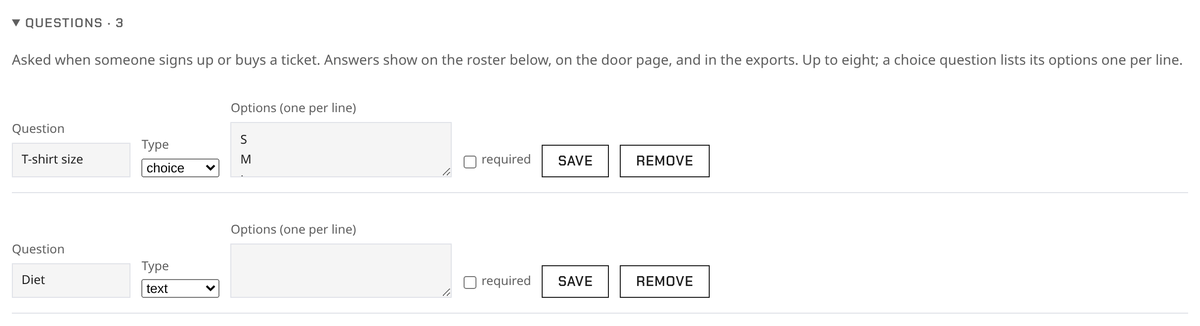
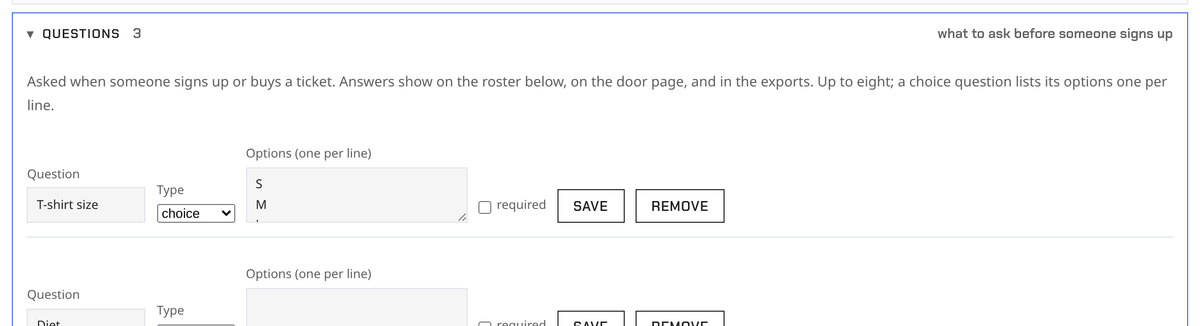
The board's sections on an event read as a menu
Seven folded sections looked alike: small grey labels in a row, nothing
saying which one held what you came for. Each is a row of its own now,
with the name, what it holds this minute (3 types · 14 sold, 12 going,
none) and a hint of what is inside (prices, how many, when sales close,
CSV). An open one turns white with a blue edge, and the browser's
triangle — lost to the flex row — is back as a chevron.

The danger zone keeps its distance in red, on the event page and on the
events page, where removing a member everywhere lives.

"Manage participants" is just "Participants" now, in the panel and in
both guides. Handbook pictures retaken, and the shot list follows the
sections by id rather than by the words in their summaries.

Claude-Session: https://claude.ai/code/session_019m4NkzFyEy3cwdh3cuTmAt

diff --git a/src/styles/site.css b/src/styles/site.css
@@ -1535,12 +1535,22 @@ a:hover {
   user-select: all;
 }
 
+/* The board's sections on an event: a row each, saying what is inside and
+   what it holds now, so the panel reads as a menu instead of seven
+   identical labels. */
 .admin-edit {
-  margin-top: 1.2rem;
+  margin-top: 0.5rem;
+  border: 1px solid var(--line);
+  background: #fafbfd;
 }
 
 .admin-edit summary {
   cursor: pointer;
+  display: flex;
+  align-items: baseline;
+  gap: 0.3rem 0.8rem;
+  flex-wrap: wrap;
+  padding: 0.6rem 0.9rem;
   font-family: var(--display);
   font-weight: 600;
   font-size: 0.8rem;
@@ -1549,13 +1559,89 @@ a:hover {
   color: var(--muted);
 }
 
-.admin-edit summary:hover {
+.admin-edit summary b {
   color: var(--ink);
+  font-weight: 700;
+}
+
+/* a flex summary loses the browser's triangle; this is it back */
+.admin-edit summary::marker,
+.admin-edit summary::-webkit-details-marker {
+  content: '';
+  display: none;
+}
+
+.admin-edit summary b::before {
+  content: '▸';
+  margin-right: 0.5rem;
+  color: var(--muted);
+}
+
+.admin-edit[open] summary b::before {
+  content: '▾';
+}
+
+.admin-edit summary:hover b {
+  color: var(--blue);
+}
+
+.admin-edit-meta {
+  font-family: var(--body);
+  font-weight: 400;
+  font-size: 0.88rem;
+  letter-spacing: 0;
+  text-transform: none;
+  color: var(--muted);
+}
+
+.admin-edit-hint {
+  margin-left: auto;
+  font-family: var(--body);
+  font-weight: 400;
+  font-size: 0.85rem;
+  letter-spacing: 0;
+  text-transform: none;
+  color: var(--muted);
+}
+
+@media (max-width: 700px) {
+  .admin-edit-hint {
+    display: none;
+  }
+}
+
+.admin-edit[open] {
+  background: var(--surface);
+  border-color: var(--blue);
+}
+
+.admin-edit[open] > *:not(summary) {
+  margin-left: 0.9rem;
+  margin-right: 0.9rem;
+}
+
+.admin-edit[open] > *:last-child {
+  margin-bottom: 1rem;
 }
 
 .admin-edit form,
 .admin-edit p {
   margin-top: 1rem;
+}
+
+/* what cannot be undone keeps its distance */
+.admin-danger {
+  margin-top: 1.4rem;
+  border-color: #c0392b;
+  background: var(--surface);
+}
+
+.admin-danger summary b {
+  color: #c0392b;
+}
+
+.admin-danger summary:hover b {
+  color: #922b21;
 }
 
 .app-form {

diff --git a/scripts/handbook/plan.py b/scripts/handbook/plan.py
@@ -47,20 +47,20 @@ shot('board-hub', '/board', 'admin', clip='.board-links', pad=16, hl=['.board-al
 shot('season-top', '/board/season', 'admin', clip='h1', skip=0, extend=700, hl=['.stat-tiles'])
 shot('season-ticks', '/board/season', 'admin', clip='#ticks', pad=12, hl=['text=Give tick', 'text=Add to the list'], nums=True)
 shot('season-claims', '/board/season', 'admin', clip='#claims', pad=12, hl=['text=Approve'])
-shot('event-ticks', '/events/2', 'admin', open=['details.admin-panel'], openText=['Manage participants'], clip='.ticks-box', pad=12, hl=['text=Give tick'])
+shot('event-ticks', '/events/2', 'admin', open=['details.admin-panel'], openText=['Participants'], clip='.ticks-box', pad=12, hl=['text=Give tick'])
 # Events
 shot('events-list', '/events', top=790, pad=0)
 shot('events-board-tools', '/events', 'admin', open=['details.admin-panel'], clip='details.admin-panel', top=400, hl=['text^=Door page', 'text=Member check', 'text=Items and card payments', 'text^=Create an event'], nums=True)
-shot('event-board-tools', '/events/1', 'admin', open=['details.admin-panel'], clip='details.admin-panel', hl=['.admin-status', 'text=Door page', 'text^=Tickets ·'], nums=True)
+shot('event-board-tools', '/events/1', 'admin', open=['details.admin-panel'], clip='details.admin-panel', hl=['.admin-status', 'text=Door page', '#tickets summary'], nums=True)
 shot('event-draft-page', '/events/6', 'admin', top=640, pad=0, hl=['.publish-form', 'text=Draft'])
-shot('event-tickets-panel', '/events/1', 'admin', open=['details.admin-panel'], openText=['Tickets'], clip='details^=Tickets', top=520, hl=['text=Export CSV', 'text=Door page'], nums=True)
-shot('event-questions-panel', '/events/1', 'admin', open=['details.admin-panel'], openText=['Questions'], clip='details^=Questions', top=330, hl=['text=Add question'])
-shot('event-participants-panel', '/events/2', 'admin', open=['details.admin-panel'], openText=['Manage participants'], clip='details^=Manage participants', top=480, hl=['text=Add participant'])
+shot('event-tickets-panel', '/events/1', 'admin', open=['details.admin-panel'], openText=['Tickets'], clip='#tickets', top=520, hl=['text=Export CSV', 'text=Door page'], nums=True)
+shot('event-questions-panel', '/events/1', 'admin', open=['details.admin-panel'], openText=['Questions'], clip='#questions', top=330, hl=['text=Add question'])
+shot('event-participants-panel', '/events/2', 'admin', open=['details.admin-panel'], openText=['Participants'], clip='#participants', top=480, hl=['text=Add participant'])
 shot('event-roster-waitlist', '/events/2', 'admin', clip='#who', hl=['.roster-label', '.member-mark-guest'], pad=8, nums=True)
 shot('event-edit-panel', '/events/1', 'admin', open=['details.admin-panel', 'details.admin-edit'], clip='details.admin-edit', top=420)
 shot('event-cover-duplicate', '/events/1', 'admin', open=['details.admin-panel', 'details.admin-edit'], clip='.cover-form', pad=16, extend=80, hl=['text=Replace cover', 'text=Duplicate as a draft', 'text=Cancel this event'], nums=True)
-shot('event-photos-panel', '/events/1', 'admin', open=['details.admin-panel'], openText=['Photos'], clip='details^=Photos', hl=['text=Upload'])
-shot('event-danger', '/events/1', 'admin', open=['details.admin-panel'], openText=['Danger zone'], clip='details^=Danger zone')
+shot('event-photos-panel', '/events/1', 'admin', open=['details.admin-panel'], openText=['Photos'], clip='#photos-admin', hl=['text=Upload'])
+shot('event-danger', '/events/1', 'admin', open=['details.admin-panel'], openText=['Danger zone'], clip='details.admin-danger')
 shot('bracket-draft', '/events/3/bracket', 'admin', clip='h1', skip=-40, extend=730, hl=['text=Save seeding', 'text=Go live'], nums=True)
 shot('bracket-live', '/events/4/bracket', 'admin', clip='h1', skip=-40, extend=430)
 shot('event-member-tickets', '/events/1', 'sara', clip='.tickets-box', hl=['text=Add for a friend'], pad=8)

diff --git a/docs/BOARD-GUIDE.md b/docs/BOARD-GUIDE.md
@@ -148,7 +148,7 @@ the bottom right lets you view a page as a member or a visitor would.
 
 ![Board tools on an event page](images/site/event-board-tools.png)
 
-*Board tools on an event page: 1 the status pills, the buttons for signups and the bracket, 2 the door page, and the folded sections below, 3 Tickets among them.*
+*Board tools on an event page: 1 the status pills, the buttons for signups and the bracket, 2 the door page, and the folded sections below — each with what it holds now and what is inside — 3 Tickets among them.*
 
 - **Signups or tickets.** An event with no ticket types takes plain
   signups. Add a ticket type and it sells tickets instead; a paid ticket
@@ -205,14 +205,14 @@ the bottom right lets you view a page as a member or a visitor would.
 
 - **Team captains.** Whoever founds a team can add people who signed up
   without a team and take members out, while signups are open. The
-  board's Manage participants does the rest.
+  board's Participants does the rest.
 
-![Manage participants](images/site/event-participants-panel.png)
+![Participants](images/site/event-participants-panel.png)
 
-*Manage participants: change anyone's answer, move them between teams, or add a walk-in by name.*
+*Participants: change anyone's answer, move them between teams, or add a walk-in by name.*
 
 - **Team events.** Set a team size; people form teams, or the board makes
-  teams, renames them and groups loose players under Manage participants.
+  teams, renames them and groups loose players under Participants.
   Generate the bracket from Board tools: it starts as a draft only the
   board sees, the seeding can be rearranged on the bracket page, and Go
   live shows it to everyone. Substitutes are swapped in on the bracket
@@ -438,7 +438,7 @@ post, **Post to Discord** under the post sends it again.
 - **Ticks.** Some things for the season pass can't be counted, like
   helping at an event: the board ticks them by hand. Give tick on the
   season page (pick the tick, the member, and the event if there is
-  one), or under an event's Manage participants, where the people at the
+  one), or under an event's Participants, where the people at the
   event are listed first. Each tick once per event; the board channel
   gets a line. The list of ticks is the board's to keep: Add to the list
   makes a new kind, Retire hides one without losing what was given. Each
@@ -475,7 +475,7 @@ post, **Post to Discord** under the post sends it again.
 | | |
 |---|---|
 | ![season-ticks](images/site/season-ticks.png) | ![event-ticks](images/site/event-ticks.png) |
-| Ticks on the season page: 1 Give tick, the ticks given this season, and 2 the list of kinds with their XP, cap and period. | The same under an event's Manage participants, with the people at the event first. |
+| Ticks on the season page: 1 Give tick, the ticks given this season, and 2 the list of kinds with their XP, cap and period. | The same under an event's Participants, with the people at the event first. |
 
 - **Your stats.** The membership page shows your events, tournaments and
   wins, with a card; `/profile` in Discord posts the card for everyone.

diff --git a/docs/OPERATIONS.md b/docs/OPERATIONS.md
@@ -96,7 +96,7 @@ returns to the categories):
    A **substitute** (someone dropped out, a walk-in stepped in) is done
    on the bracket page: add them to the roster first, then Out/In under
    Substitute; they take over the place and any results. Teams are
-   renamed under Manage participants on the event page, and the name
+   renamed under Participants on the event page, and the name
    carries to the bracket, the pictures and the team's voice channel.
 7. **💬 Screen message** (Announce & screen) puts a one-line banner on the
    venue screen ("Finals in 5 minutes!"); submit it empty to clear.
@@ -123,9 +123,9 @@ regenerate bracket) ask "are you sure" first.
 
 ![Board tools on an event page](images/site/event-board-tools.png)
 
-*Board tools on an event page: 1 the status pills, 2 the door page, 3 the folded sections (Edit, Discord, Tickets, Questions, Manage participants, Photos, Danger zone).*
+*Board tools on an event page: 1 the status pills, 2 the door page, 3 the folded sections — each says what it holds now and what is inside (Edit, Discord, Tickets, Questions, Participants, Photos), with the danger zone kept apart in red.*
 
-The Admin panel's **Manage participants** section edits the roster directly,
+The Admin panel's **Participants** section edits the roster directly,
 skipping the normal signup rules (closed signups, capacity): change anyone's
 answer (Going/Maybe), move them between teams (team size still holds), or
 **add a walk-in participant by name** — someone without Discord. A manual
@@ -953,7 +953,7 @@ is one kind given to one register entry by a board member, optionally for
 one event, the same kind once per event; ticks go to current members only
 and follow the entry (a Discord relink keeps them, erasing the entry
 deletes them, deleting the event keeps the tick without the event). Given
-on the season page or under an event's Manage participants, both through
+on the season page or under an event's Participants, both through
 `POST /board/ticks`; every tick given is a line in the board channel. A
 member sees their own under `/season` and on the membership page, this
 season's only: everything is cut at 1 September (`seasonRange`), so last
